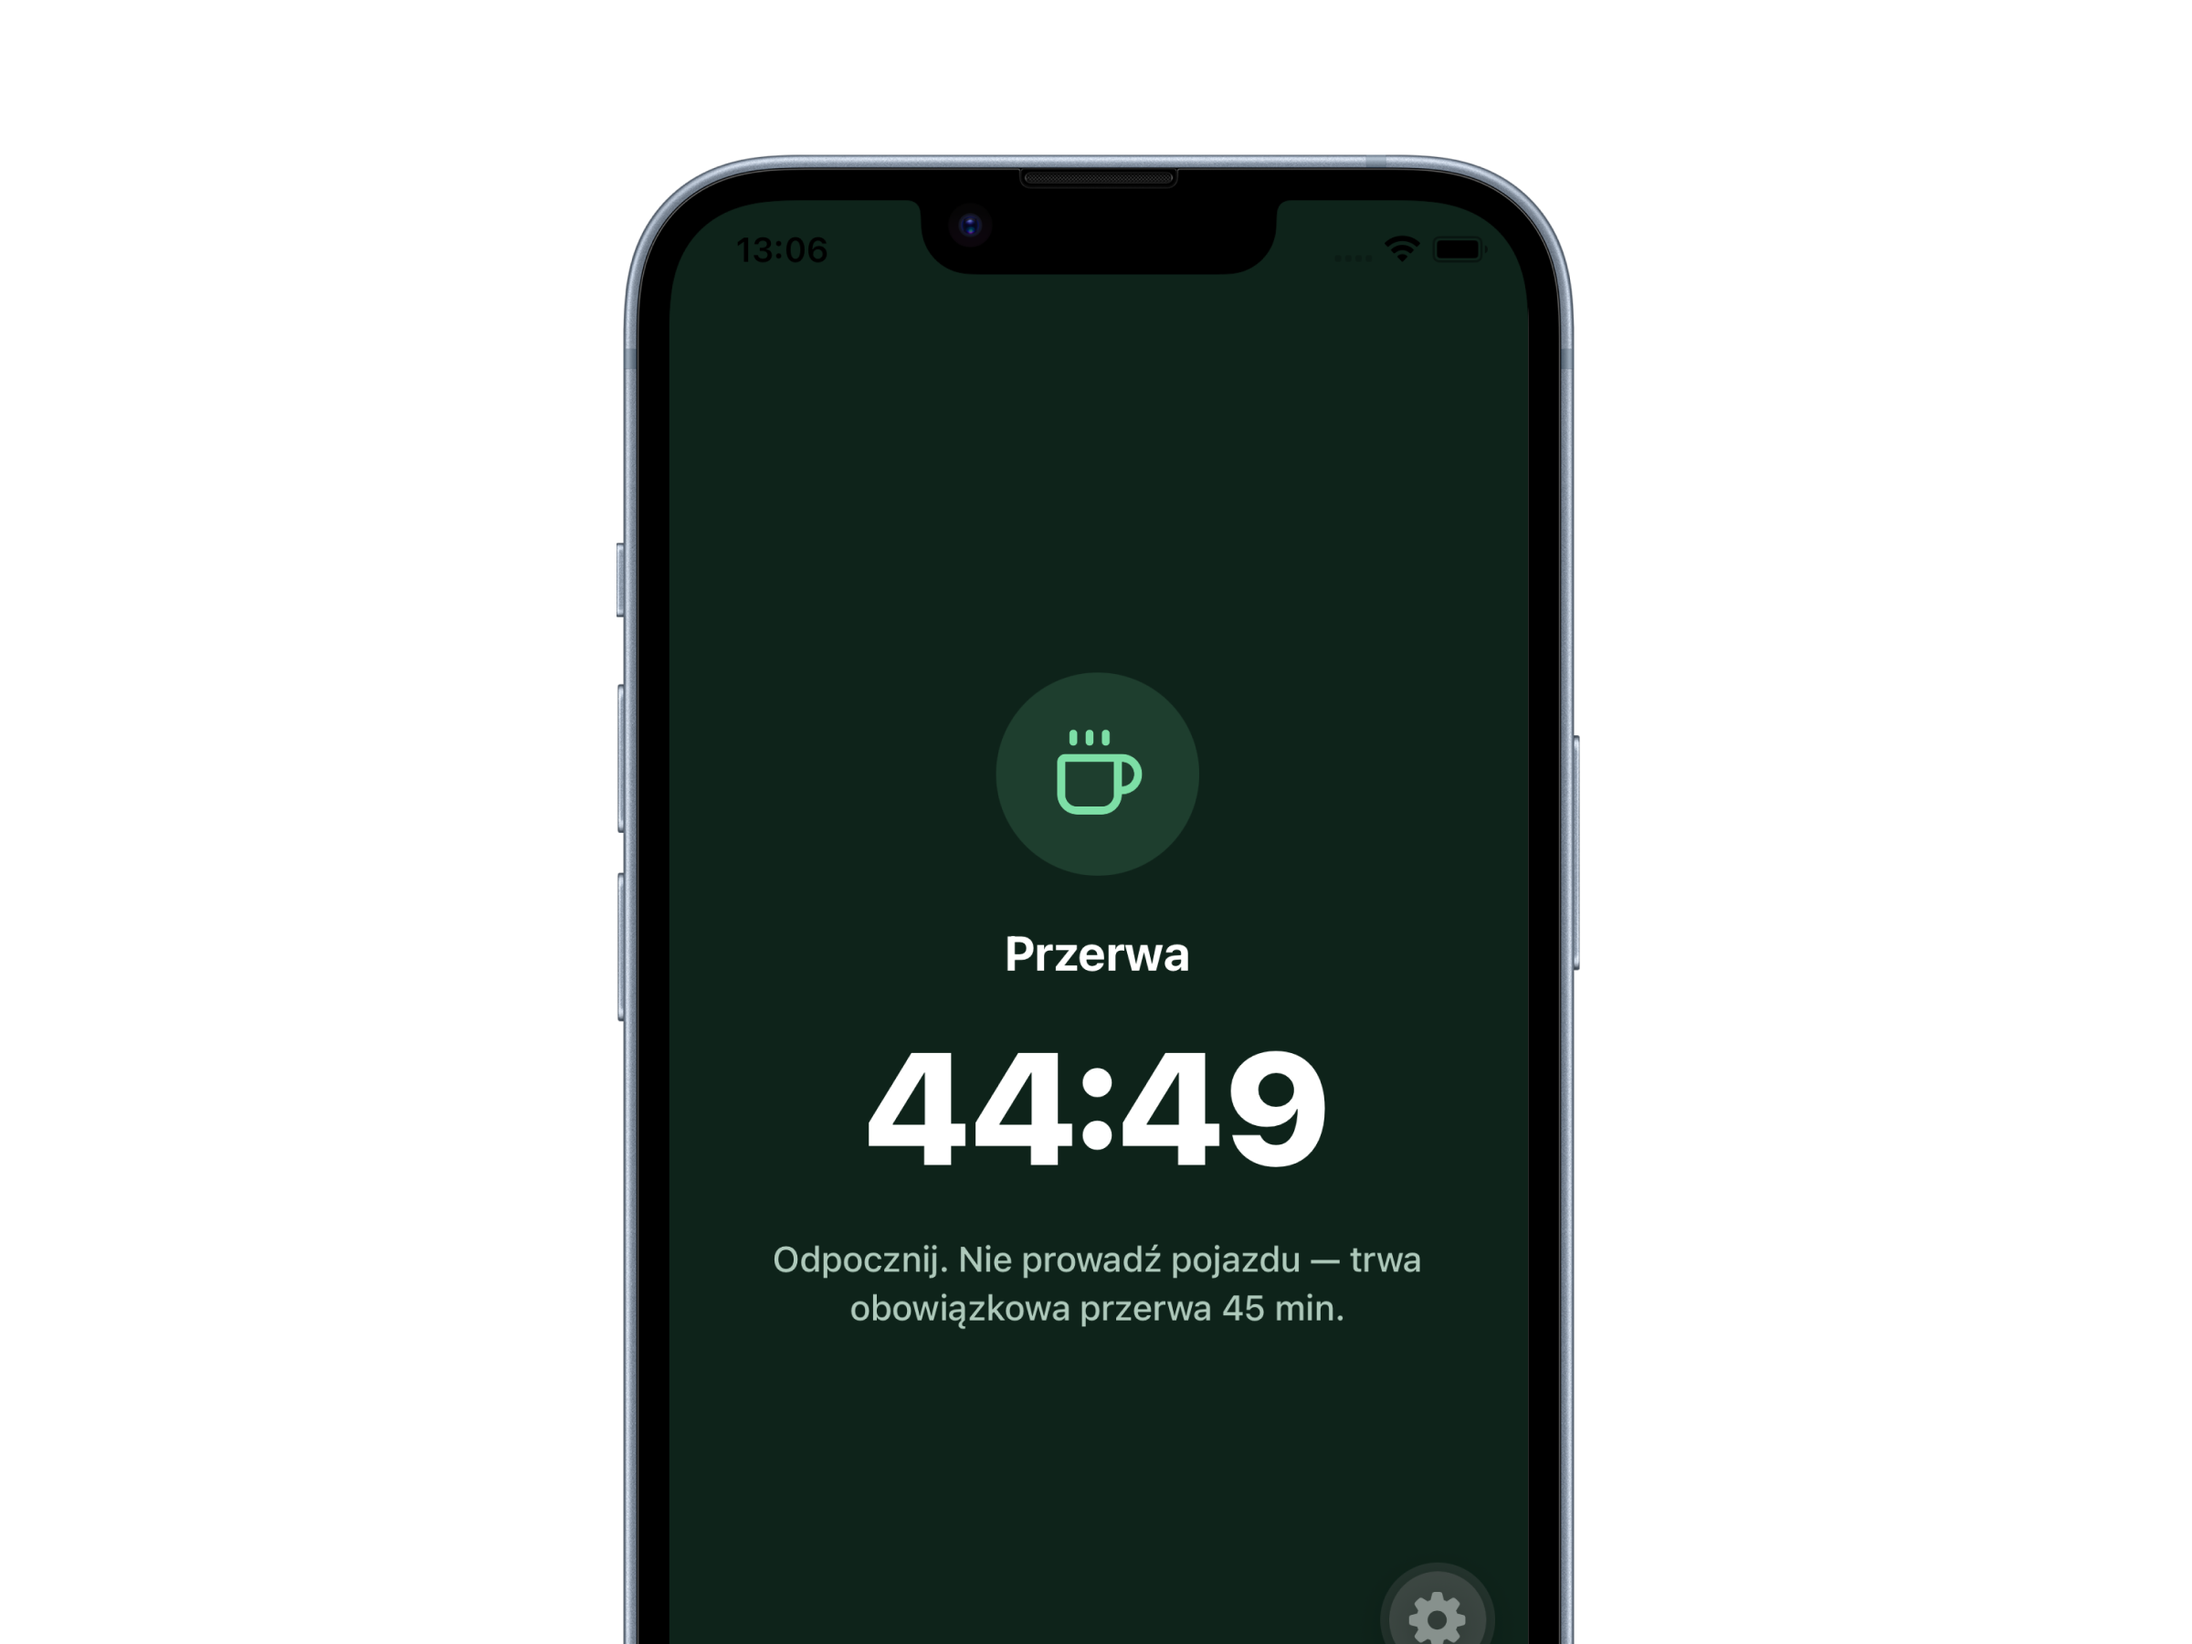
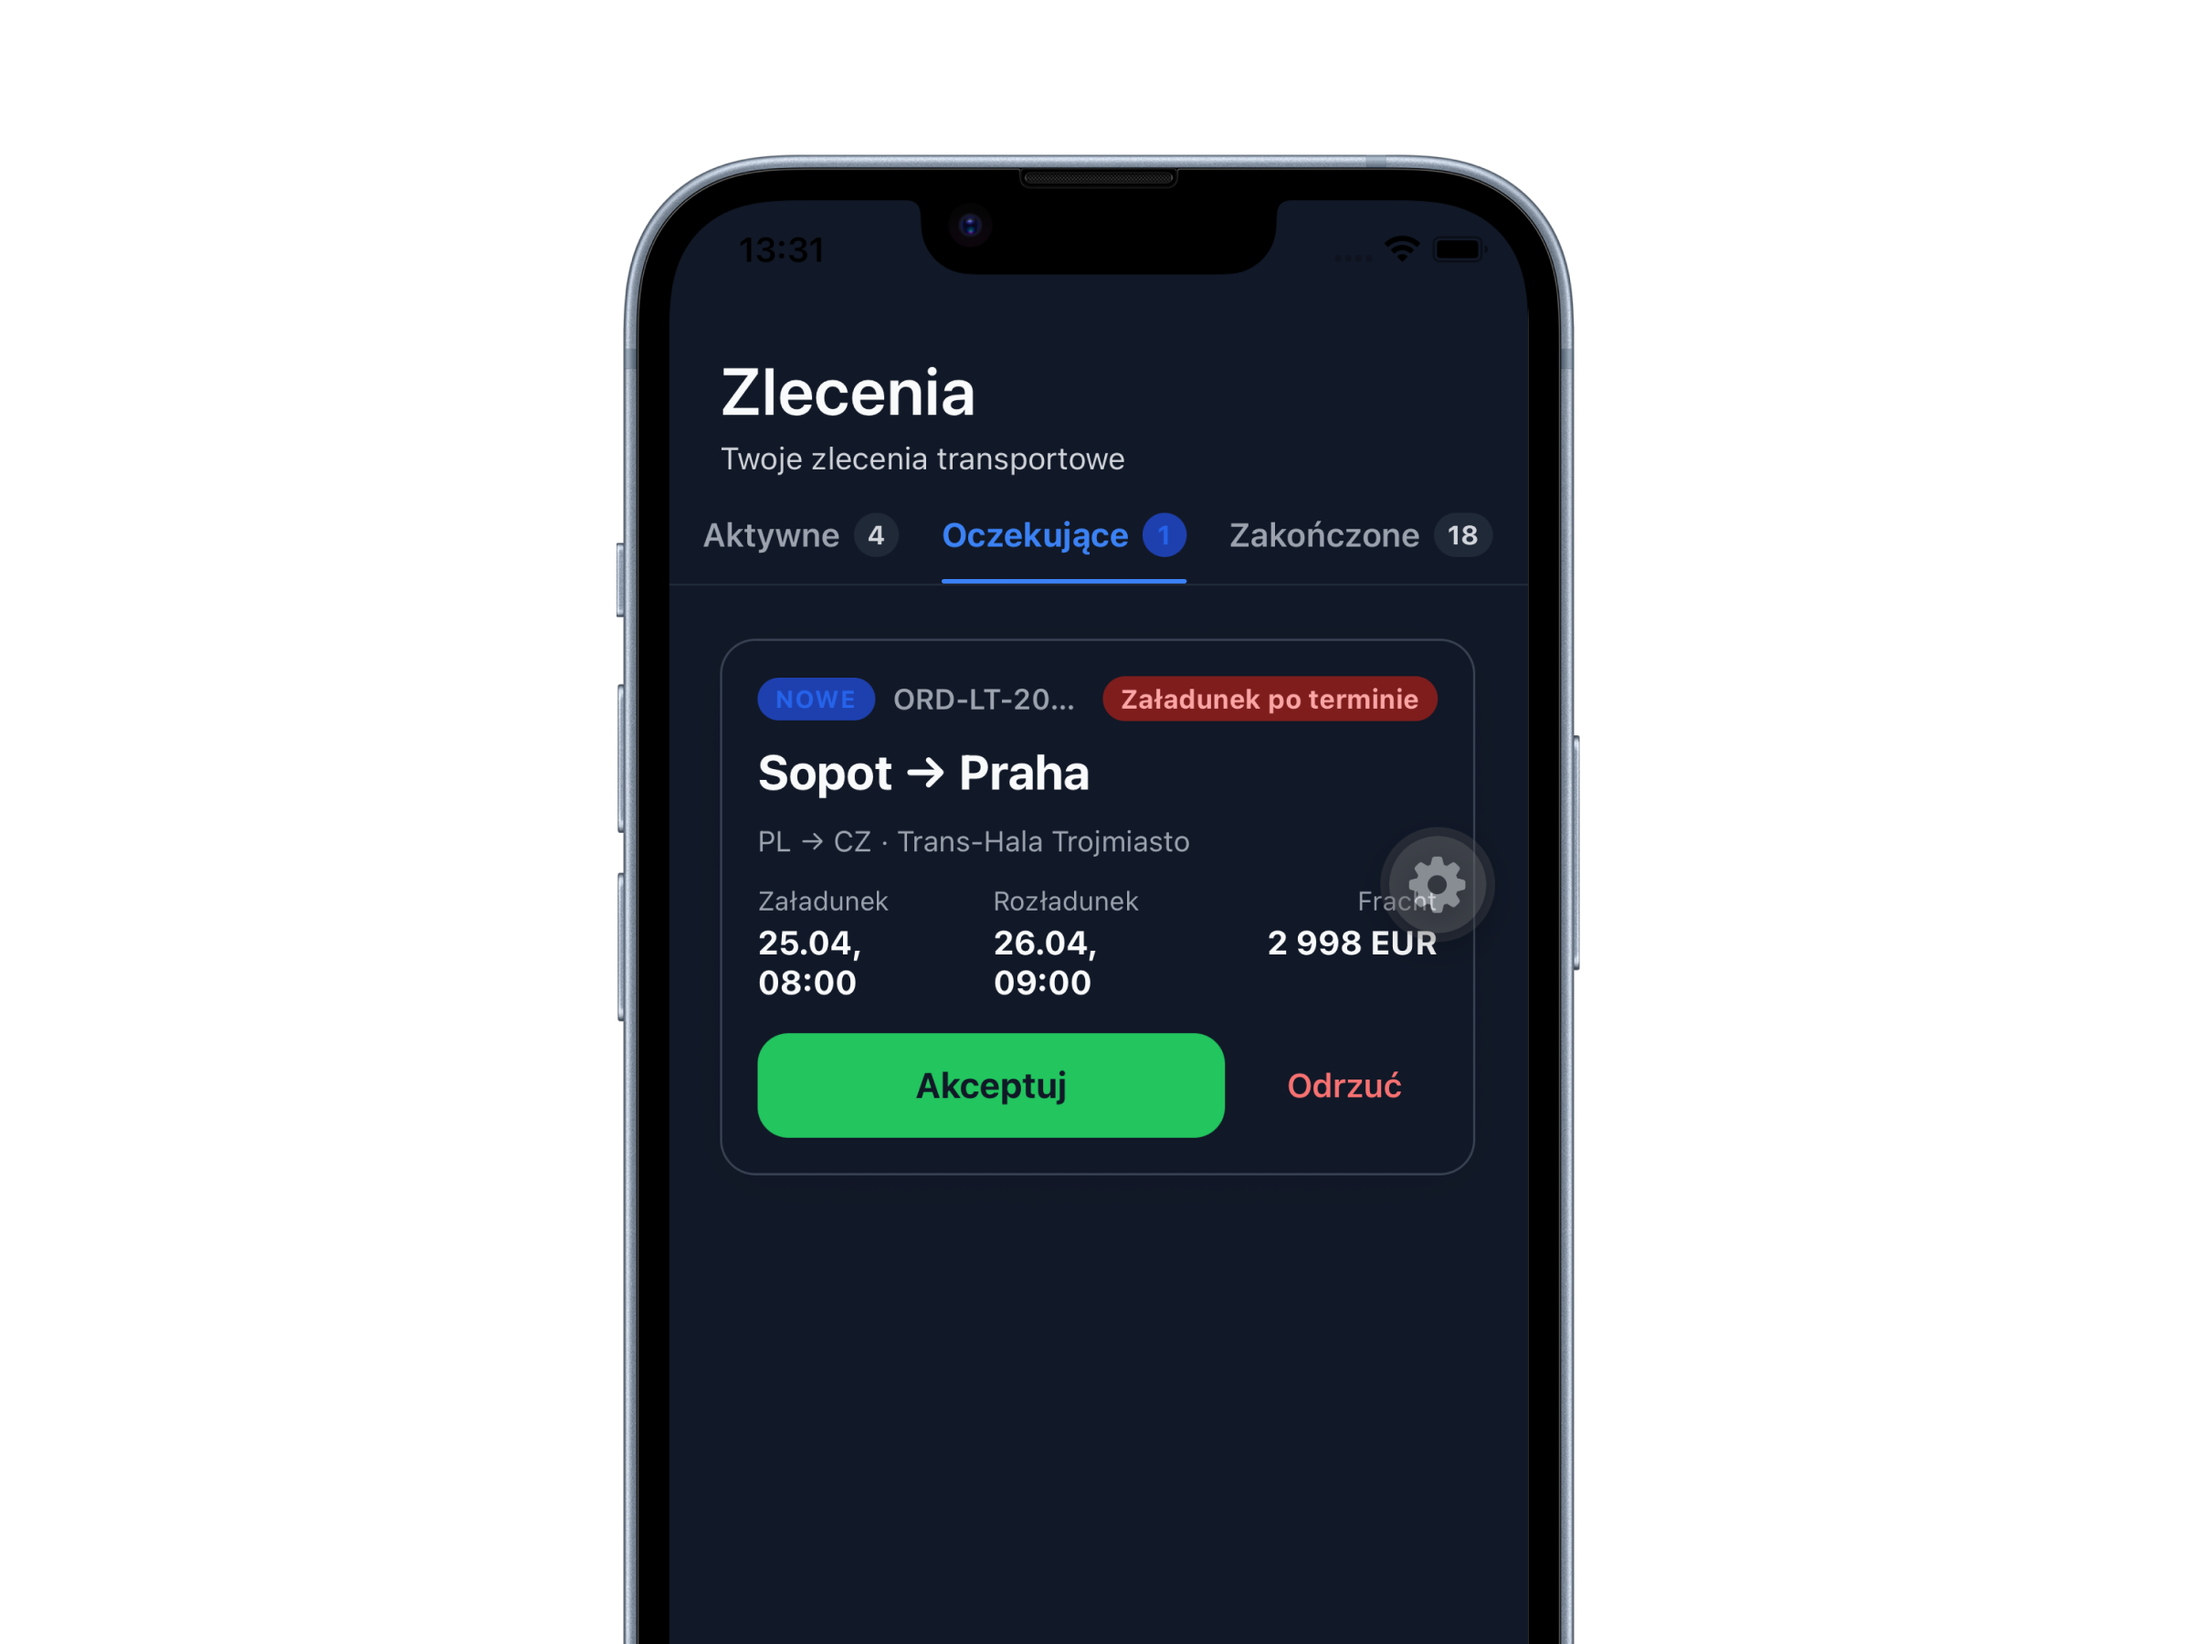
fix(landing): powiększony zrzut telefonu na stronie czasu pracy
Sekcja z przypomnieniem o przerwie używa tego samego pliku, co strona
aplikacji kierowcy, ale wywołuje MockupSlot bezpośrednio — z pominięciem
wspólnego komponentu, który tam nadaje powiększenie. Telefon zajmuje w tym
kadrze 30% szerokości, więc bez skali wychodził szeroki na 158 px
w kolumnie mającej 520.

Ta sama wartość, co na stronie aplikacji kierowcy: 285 px zamiast 158.

Przy okazji przejrzałem wszystkie wywołania MockupSlot ze zrzutem telefonu
pod kątem brakującej skali. Poza tym jednym reszta jest w porządku:
`koszty-paragon` ma treść na 96% kadru i powiększenia nie potrzebuje,
a hero aplikacji kierowcy zostaje bez skali celowo, bo jego zrzut wypełnia
91% kadru i każde powiększenie wypycha go poza ekran.

Zmierzone na czterech stronach: żaden zrzut nie jest już mniejszy, niż
powinien.

Claude-Session: https://claude.ai/code/session_01XDBvzDsKA9s71GwgWzkvWN

diff --git a/landing/src/components/pages/czas/Przypomnienie.tsx b/landing/src/components/pages/czas/Przypomnienie.tsx
@@ -19,6 +19,11 @@ export function Przypomnienie() {
               note="Ten sam plik co na stronie o aplikacji kierowcy. Przypomnienie „za 20 minut przerwa” u góry, pierścień jazdy, przycisk „Przerwa”."
               ratio="9:19.5"
               box="6:7"
+              // Ten sam plik i ta sama wartość, co na stronie aplikacji
+              // kierowcy: telefon zajmuje 30% szerokości kadru, więc bez
+              // powiększenia wychodzi szeroki na 158 px w kolumnie mającej 520.
+              imageScale={1.8}
+              imageScaleTelefon={1.8}
               dark
               noteClassName="mx-auto max-w-[520px]"
             >
